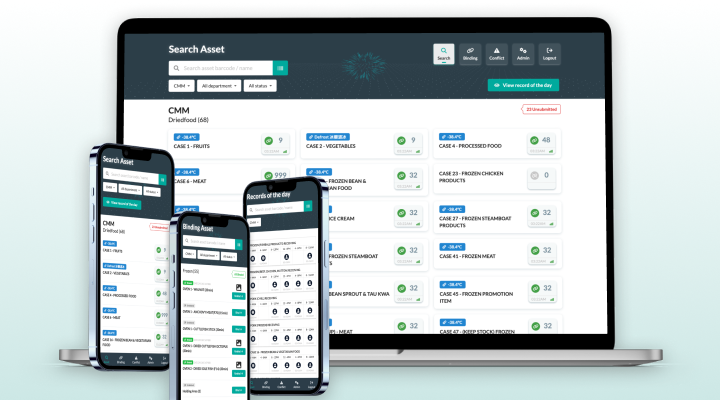
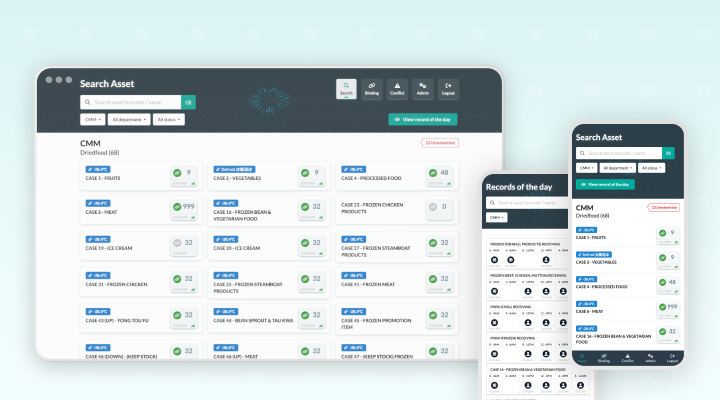
added asset monitoring

diff --git a/pages/works/assetmonitoring.js b/pages/works/assetmonitoring.js
@@ -1,0 +1,117 @@
+import { ExternalLinkIcon } from '@chakra-ui/icons'
+import { Badge, Box, Container, Flex, Heading, List, ListItem, Text, UnorderedList, useColorModeValue, Link } from '@chakra-ui/react'
+
+import Layout from '../../components/layouts/article'
+import P from '../../components/paragraph'
+import { BeginMeta, Meta, Title, WorkImage } from '../../components/work'
+
+const Work = () => (
+  <Layout title="Asset Monitoring">
+    <Container>
+      <Title>
+        Asset Monitoring <Badge>2022</Badge>
+      </Title>
+
+      <BeginMeta>UI/UX Design</BeginMeta>
+      <BeginMeta>Frontend Development</BeginMeta>
+
+      <P>Access reliable real time temperature reading with the solution to monitor operational environment.</P>
+      <P>
+        Adapting with Semantic UI design as base. The application is redesigned to improve UI/UX and focus on more user friendly for wide
+        range of users.
+      </P>
+
+      <List ml={4} my={4}>
+        <ListItem>
+          <Meta>Preview site</Meta>
+          <span>
+            <Link href="https://ss-iot-v02.netlify.app/" target="_blank">
+              Preview
+              <ExternalLinkIcon mx="2px" />
+            </Link>
+          </span>
+        </ListItem>
+        <ListItem>
+          <Meta>Usage</Meta>
+          <span>Internal use only</span>
+        </ListItem>
+        <ListItem>
+          <Meta>Stack</Meta>
+          <span>C# / Javascript</span>
+        </ListItem>
+        <ListItem>
+          <Meta>Animation</Meta>
+          <span>Vanta.js</span>
+        </ListItem>
+        <ListItem>
+          <Meta>Design System</Meta>
+          <span>Semantic UI</span>
+        </ListItem>
+      </List>
+
+      <WorkImage src="/images/works/assetmonitoring_eyecatch.png" alt="Asset Monitoring" />
+
+      <Box
+        borderRadius="lg"
+        mt={6}
+        mb={3}
+        p={3}
+        textAlign="center"
+        bg={useColorModeValue('whiteAlpha.500', 'whiteAlpha.200')}
+        css={{ backdropFilter: 'blur(10px)' }}
+      >
+        <Box textAlign="left">
+          <Text fontSize="20px" color="red.400" fontWeight="bold">
+            UI PROBLEM (Before)
+          </Text>
+          <UnorderedList mt={2}>
+            <ListItem>Less attractive color combination and feel unsure for instruction as too many buttons on first view</ListItem>
+            <ListItem>Unobvious option selection</ListItem>
+            <ListItem>Outdated looking UI</ListItem>
+          </UnorderedList>
+        </Box>
+
+        <Flex gap={3} mt={4}>
+          <Box>
+            <WorkImage src="/images/works/assetmonitoring_01.png" alt="Asset Monitoring" />
+          </Box>
+          <Box>
+            <WorkImage src="/images/works/assetmonitoring_02.png" alt="Asset Monitoring" />
+          </Box>
+        </Flex>
+      </Box>
+
+      <Box
+        borderRadius="lg"
+        mt={8}
+        mb={3}
+        p={3}
+        textAlign="center"
+        bg={useColorModeValue('whiteAlpha.500', 'whiteAlpha.200')}
+        css={{ backdropFilter: 'blur(10px)' }}
+      >
+        <Box textAlign="left">
+          <Text fontSize="20px" color="blue.400" fontWeight="bold">
+            UI SOLUTION (After)
+          </Text>
+          <UnorderedList mt={2}>
+            <ListItem>Comfortable color combination and attractive header look</ListItem>
+            <ListItem>Clear instruction and option selection</ListItem>
+            <ListItem>Trendy looking UI with Semantic UI</ListItem>
+          </UnorderedList>
+        </Box>
+        <Flex gap={3} mt={4}>
+          <Box>
+            <WorkImage src="/images/works/assetmonitoring_03.png" alt="Asset Monitoring" />
+          </Box>
+          <Box>
+            <WorkImage src="/images/works/assetmonitoring_04.png" alt="Asset Monitoring" />
+          </Box>
+        </Flex>
+      </Box>
+    </Container>
+  </Layout>
+)
+
+export default Work
+export { getServerSideProps } from '../../components/chakra'

diff --git a/pages/works.js b/pages/works.js
@@ -5,6 +5,7 @@ import NextLink from 'next/link'
 import { WorkGridItem } from '../components/grid-item'
 import Layout from '../components/layouts/article'
 import Section from '../components/section'
+import thumbAssetMonitoring from '../public/images/works/assetmonitoring_eyecatch.png'
 import thumbEmailTemplates from '../public/images/works/emailtemplates_eyecatch.png'
 import thumbEvoucher from '../public/images/works/evoucher_eyecatch.png'
 import thumbFms from '../public/images/works/fms_eyecatch.png'
@@ -53,6 +54,12 @@ const Works = () => (
         <Section>
           <WorkGridItem id="fms" title="Fleet Management System" thumbnail={thumbFms}>
             For fleet managers to monitor fleet activities and make decisions about asset management, dispatch and routing
+          </WorkGridItem>
+        </Section>
+
+        <Section>
+          <WorkGridItem id="assetmonitoring" title="Asset Monitoring" thumbnail={thumbAssetMonitoring}>
+            Access reliable real time temperature reading with the solution to monitor operational environment
           </WorkGridItem>
         </Section>
       </SimpleGrid>
